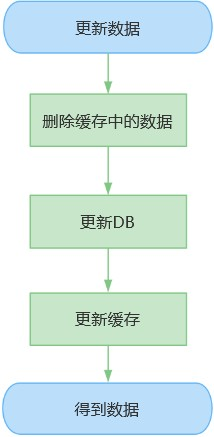
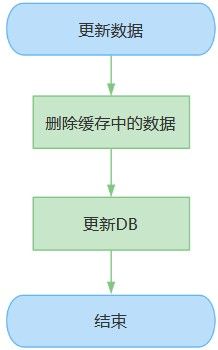
2021-08-08 RocketMQ架构原理 & 缓存DB双写一致性

diff --git a/Part1/5.缓存/缓存与DB双写.md b/Part1/5.缓存/缓存与DB双写.md
@@ -1,18 +1,36 @@
 ## 缓存与DB读写模式
 
-#### Cache-Aside Pattern
+Cache-Aside Pattern
 
-- 双写读数据流程
+双写模式下**最基本**的数据读写流程
 
-  <img src=".\pic\双写读数据流程.jpg" style="zoom:80%; float:left" />
+#### 读数据流程
 
+<img src=".\pic\双写读数据流程.jpg" style="zoom:80%; float:left" />
 
-
-- 双写更新数据流程
-
-  <img src=".\pic\双写更新数据流程.jpg" style="zoom:80%; float:left" />
+- 缺点：高并发场景会导致缓存击穿
 
 
+
+#### 更新数据流程
+
+<img src=".\pic\双写更新数据流程.jpg" style="zoom:80%; float:left" />
+
+- 缺点：高并发场景会导致数据不一致
+
+- 为什么是删缓存而不是更新缓存？
+
+  有时候缓存的数据并不是简单从DB中取出来，而是需要经过一系列计算，可能计算的**成本代价较高**
+
+  而且如果这些数据属于**访问量不大**，相对较冷的数据，就更没必要更新DB的同时去更新缓存了
+  
+  所以需要综合上面两个情况
+  
+  选择更新DB的时候同步更新缓存
+  
+  或者是在查询的时候再去计算缓存（这是**懒加载**思想）
+  
+  
 
 
 
@@ -22,13 +40,37 @@
 
 ## 缓存和DB双写不一致
 
-<img src=".\pic\\双写不一致时序图.jpg" style="zoom:80%; float:left" />
+#### 初级问题及解决方案
+
+如果更新数据时，先更新DB，再删缓存，那当更新DB之后更新缓存之前这段时间、或者更新DB之后更新缓存失败了，就会导致数据不一致
+
+解决方法其实上面最基本的更新数据流程就可以解决，更新DB之前先删缓存，更新DB之后再同步更新缓存
 
 
 
-- 先删缓存，再更新DB，再写缓存，高并发会出问题
-- 将读写请求都路由到JVM的内存队列中
-- 可对内存队列汇总的读请求进行去重，防止多次从DB查出来然后更新缓存
+#### 高并发下的问题及解决方案
+
+高并发情况，最基本的读写流程会导致两个问题：
+
+- 缓存击穿：当缓存失效时，大量请求全部打到DB中
+
+  <img src=".\pic\缓存击穿.jpg" style="zoom:80%; float:left" />
+
+  
+
+- 数据不一致：高并发下每秒有上万读请求，在DB尚未更新完时，缓存就会被写入旧的值，引发短暂的数据不一致
+
+  <img src=".\pic\双写不一致时序图.jpg" style="zoom:80%; float:left" />
+
+
+
+解决方案：
+
+大的思路就是将读写请求串行化
+
+- 将对同一份数据的读写请求都路由到JVM的内存队列中
+- 然后每个队列都由一个线程去执行请求
+- 可对内存队列汇总的读请求进行去重（可用分布式锁实现），防止多次从DB查出来然后更新缓存
 
 该方案存在的问题：
 
@@ -45,6 +87,8 @@
   如果更新频率不大，这个问题影响也并不大
 
 **详细在ryredis34**
+
+
 
 
 

diff --git a/Part1/4.数据库/6.事务与MVCC.md b/Part1/4.数据库/6.事务与MVCC.md
@@ -100,13 +100,13 @@ ReadView中主要有4个元素（假设该事务分配到trx_id为11）：
 
 下面是SQL标准下的四种事务隔离级别，注意是**SQL标准**，不是MySQL独有
 
-#### Read Uncommited
+#### Read Uncommitted
 
 读未提交 -- 事务运行期间，其他事务修改的数据行，不用提交事务，该事务就可以读到
 
 
 
-#### Read Commited
+#### Read Committed
 
 读已提交 -- 事务运行期间，只有其他事务修改了数据行**且提交**了，本事务才可以读到修改后的数据
 
